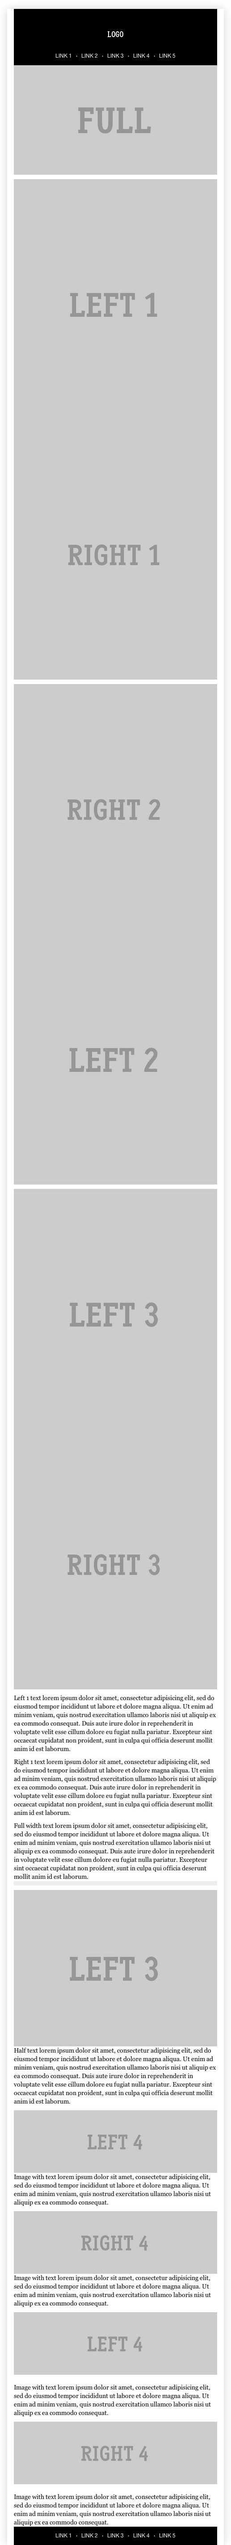
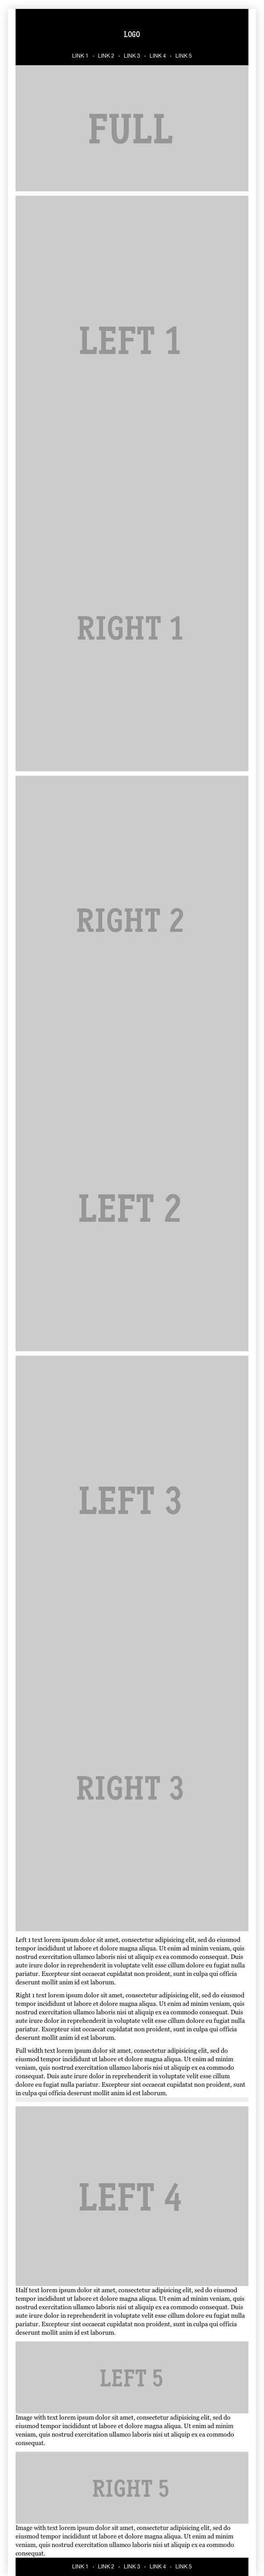
Updated screenshots

diff --git a/boilerplate.html b/boilerplate.html
@@ -395,7 +395,7 @@
 									<table align="right" width="100%" dir="ltr" cellpadding="0" cellspacing="0" border="0" style="border-collapse: collapse; mso-table-lspace:0pt; mso-table-rspace:0pt; ">
 										<tr valign="top">
 											<td width="295" dir="ltr" bgcolor="#FFFFFF" class="full padded left"  style="mso-table-lspace:0;mso-table-rspace:0; margin:0;">
-												<a href="#"><img src="http://placehold.it/650x500&text=LEFT+3" alt="" border="0" width="295" style="display: block; width:100%; max-width:325px; height:auto;"></a>				 		
+												<a href="#"><img src="http://placehold.it/650x500&text=LEFT+4" alt="" border="0" width="295" style="display: block; width:100%; max-width:325px; height:auto;"></a>				 		
 											</td>
 											<td width="295" dir="ltr" bgcolor="#FFFFFF" class="full padded right">
 												<p style="mso-table-lspace:0;mso-table-rspace:0; padding:0px; margin:0;">
@@ -426,51 +426,14 @@
 									<table align="right" width="100%" dir="ltr" cellpadding="0" cellspacing="0" border="0" style="border-collapse: collapse; mso-table-lspace:0pt; mso-table-rspace:0pt; ">
 										<tr valign="top">
 											<td width="295" dir="ltr" bgcolor="#FFFFFF" class="full padded left">
-												<a href="#"><img src="http://placehold.it/650x200&text=LEFT+4" alt="" border="0" width="295" style="display: block; width:100%; max-width:325px; height:auto;"></a>	
+												<a href="#"><img src="http://placehold.it/650x200&text=LEFT+5" alt="" border="0" width="295" style="display: block; width:100%; max-width:325px; height:auto;"></a>	
 												<p style="mso-table-lspace:0;mso-table-rspace:0; padding:0px; margin:0;">
 													Image with text lorem ipsum dolor sit amet, consectetur adipisicing elit, sed do eiusmod tempor incididunt ut labore et dolore magna aliqua. Ut enim ad minim veniam, quis nostrud exercitation ullamco laboris nisi ut aliquip ex ea commodo consequat.
 												</p>			 		
 											</td>
 											<td width="295" dir="ltr" bgcolor="#FFFFFF" class="full padded right">
-												<a href="#"><img src="http://placehold.it/650x200&text=RIGHT+4" alt="" border="0" width="295" style="display: block; width:100%; max-width:325px; height:auto;"></a>
+												<a href="#"><img src="http://placehold.it/650x200&text=RIGHT+5" alt="" border="0" width="295" style="display: block; width:100%; max-width:325px; height:auto;"></a>
 												<p style="mso-table-lspace:0;mso-table-rspace:0; padding:0px; margin:0;">
-													Image with text lorem ipsum dolor sit amet, consectetur adipisicing elit, sed do eiusmod tempor incididunt ut labore et dolore magna aliqua. Ut enim ad minim veniam, quis nostrud exercitation ullamco laboris nisi ut aliquip ex ea commodo consequat.						
-												</p>
-											</td>
-										</tr>
-									</table>
-								</td>
-							</tr>         
-						</table>
-						<!-- End Two Column -->
-						
-						<!-- Spacer -->
-						<table width="650" class="deviceWidth" border="0" cellpadding="0" cellspacing="0" align="center" bgcolor="#FFFFFF">
-							<tr>
-								<td valign="top" height="10" style="padding:0" bgcolor="#ffffff">
-									
-								</td>
-							</tr>         
-						</table>
-						<!-- End Spacer -->
-						
-						<!-- Two Column - Image WITH Text - Left over Right -->
-						<table width="650" class="deviceWidth" border="0" cellpadding="0" cellspacing="0" align="center" bgcolor="#eeeeed">
-							<tr>
-								<td valign="top" style="padding:0" bgcolor="#ffffff">
-									<table align="right" width="100%" dir="ltr" cellpadding="0" cellspacing="0" border="0" style="border-collapse: collapse; mso-table-lspace:0pt; mso-table-rspace:0pt; ">
-										<tr valign="top">
-											<td width="295" dir="ltr" bgcolor="#FFFFFF" class="full padded left">
-												<p style="mso-table-lspace:0;mso-table-rspace:0; padding:0px; margin:0;">
-													<a href="#"><img src="http://placehold.it/650x200&text=LEFT+4" alt="" border="0" width="295" style="display: block; width:100%; max-width:325px; height:auto;"></a>	
-													<br/>
-													Image with text lorem ipsum dolor sit amet, consectetur adipisicing elit, sed do eiusmod tempor incididunt ut labore et dolore magna aliqua. Ut enim ad minim veniam, quis nostrud exercitation ullamco laboris nisi ut aliquip ex ea commodo consequat.
-												</p>			 		
-											</td>
-											<td width="295" dir="ltr" bgcolor="#FFFFFF" class="full padded right">
-												<p style="mso-table-lspace:0;mso-table-rspace:0; padding:0px; margin:0;">
-													<a href="#"><img src="http://placehold.it/650x200&text=RIGHT+4" alt="" border="0" width="295" style="display: block; width:100%; max-width:325px; height:auto;"></a>	
-													<br/>
 													Image with text lorem ipsum dolor sit amet, consectetur adipisicing elit, sed do eiusmod tempor incididunt ut labore et dolore magna aliqua. Ut enim ad minim veniam, quis nostrud exercitation ullamco laboris nisi ut aliquip ex ea commodo consequat.						
 												</p>
 											</td>
